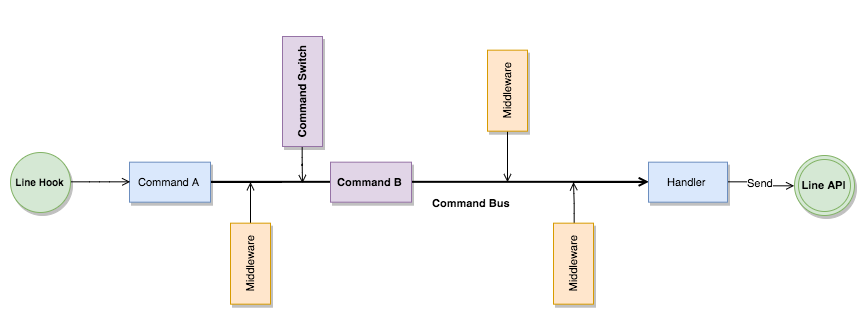
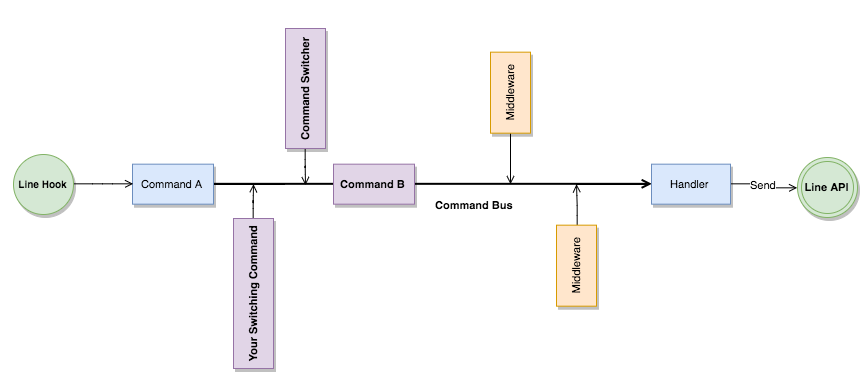
update switch command

Changed region(s): [[0.0, 0.0597, 1.0, 0.9851]]

diff --git a/docs/README.md b/docs/README.md
@@ -237,7 +237,39 @@ TODO
 
 ![Command Switch Middleware](command-switch.png)
 
-วิธีการใช้งานก็เหมือนกับการใช้ `Middleware` อื่นๆ ดูที่หัวข้อ [Setup](#setup)
+วิธีการใช้งานก็เหมือนกับการใช้ `Middleware` อื่นๆ ดูที่หัวข้อ [Setup](#setup) และมีสิ่งที่เราต้องทำเพียงเล็กน้อย คือสร้าง middleware สำหรับกำหนด command ที่เราต้องการเปลี่ยน ดังนี้
+
+```php
+<?php
+
+use League\Tactician\Middleware;
+use LineMob\Core\Command\AbstractCommand;
+use LineMob\Core\Template\TextTemplate;
+
+class SwitchingMiddleware implements Middleware
+{
+    /**
+     * @param AbstractCommand $command
+     *
+     * {@inheritdoc}
+     */
+    public function execute($command, callable $next)
+    {
+        $cmd = new \YourSwitchedCommand();
+        $cmd->message = new TextTemplate();
+        $cmd->message->text = "Hi, I'm SwitchedCommand";
+
+        // copy input
+        $cmd->input = $command->input;
+
+        // MUST be `switchTo` key
+        $command['switchTo'] = $cmd;
+
+        return $next($command);
+    }
+}
+
+```
 
 ### Workflow Middleware
 TODO
